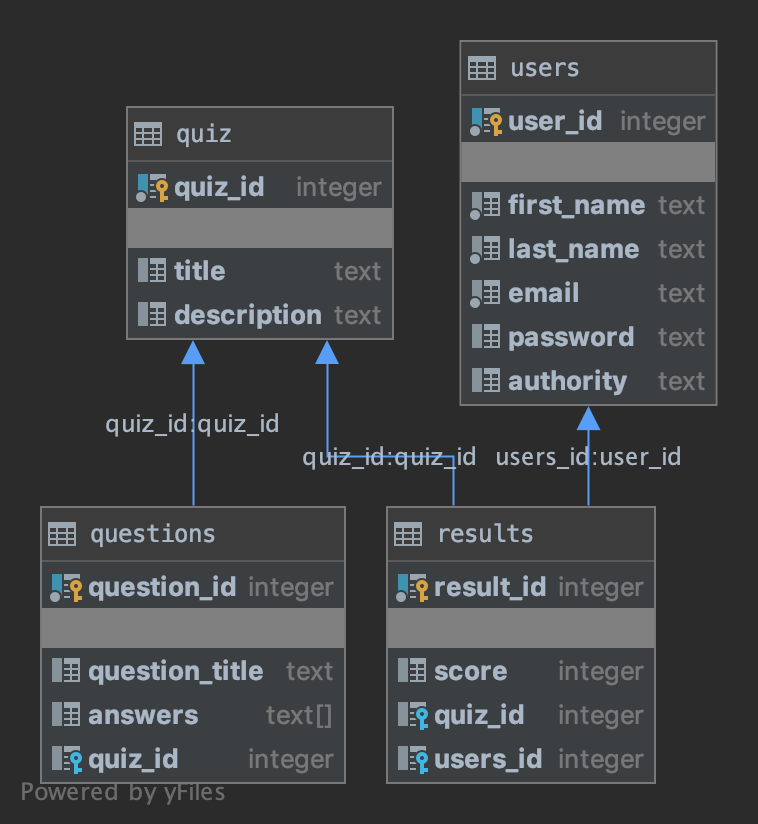
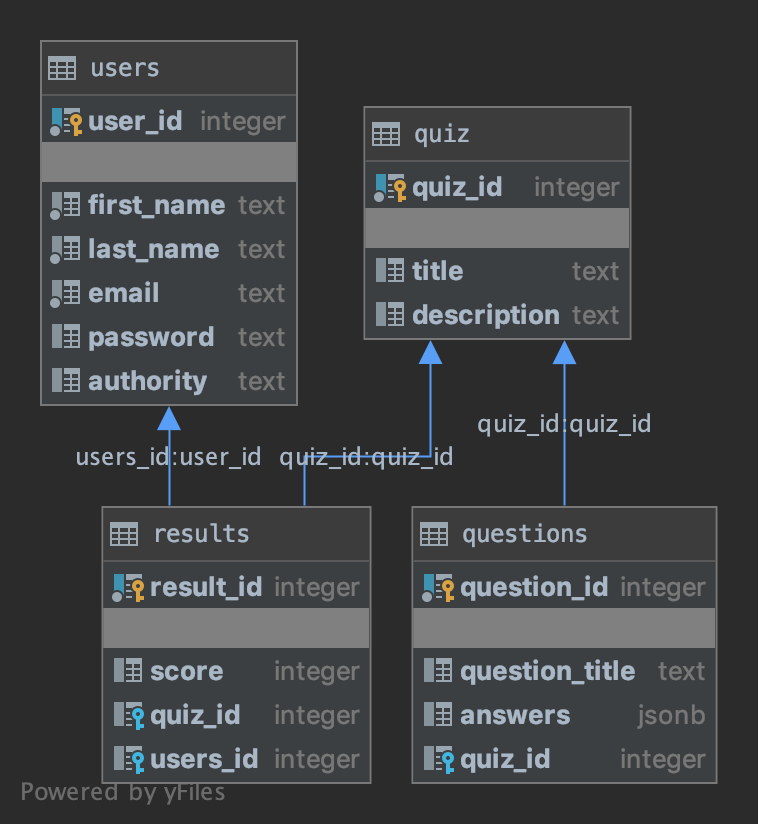
Add Java Files and Repo Classes

Changed region(s): [[0.0303, 0.0303, 0.971, 0.6068], [0.0303, 0.6068, 0.971, 0.9405], [0.3641, 0.0303, 0.3945, 0.0607]]

diff --git a/quiz-managment-backend/src/main/java/com/quiz/webbiskoolsltd/pgdb/Questions.java b/quiz-managment-backend/src/main/java/com/quiz/webbiskoolsltd/pgdb/Questions.java
@@ -1,7 +1,5 @@
 package com.quiz.webbiskoolsltd.pgdb;
 
-import java.util.List;
-
 import javax.persistence.Column;
 import javax.persistence.Entity;
 import javax.persistence.FetchType;
@@ -15,16 +13,16 @@ import org.hibernate.annotations.GenericGenerator;
 import org.hibernate.annotations.Parameter;
 import org.hibernate.annotations.Type;
 import org.hibernate.annotations.TypeDef;
+import org.hibernate.annotations.TypeDefs;
 
-import com.quiz.webbiskoolsltd.pgdb.models.Answer;
-import com.vladmihalcea.hibernate.type.array.ListArrayType;
+import com.quiz.webbiskoolsltd.pgdb.models.AnswerObject;
+import com.vladmihalcea.hibernate.type.json.JsonBinaryType;
 
 @Table(name = "questions", schema = "public")
 @Entity
-@TypeDef(
-	    name = "list-array",
-	    typeClass = ListArrayType.class
-	)
+@TypeDefs({
+    @TypeDef(name = "jsonb", typeClass = JsonBinaryType.class)
+})
 public class Questions {
 	
 	@Id
@@ -37,9 +35,9 @@ public class Questions {
 	@Column(name = "question_title", nullable = false)
 	private String questionTitle;
 	
-	@Type(type ="list-array")
-	@Column(name = "answers", columnDefinition = "text[]")
-	private List<Answer> answers;
+	@Type(type ="jsonb")
+	@Column(name = "answers")
+	private AnswerObject answers;
 	
 	@ManyToOne(fetch = FetchType.LAZY)
 	@JoinColumn(name = "quiz_id")
@@ -65,11 +63,11 @@ public class Questions {
 		this.questionTitle = questionTitle;
 	}
 
-	public List<Answer> getAnswers() {
+	public AnswerObject getAnswers() {
 		return answers;
 	}
 
-	public void setAnswers(List<Answer> answers) {
+	public void setAnswers(AnswerObject answers) {
 		this.answers = answers;
 	}
 

diff --git a/quiz-managment-backend/src/main/java/com/quiz/webbiskoolsltd/pgdb/models/AnswerObject.java b/quiz-managment-backend/src/main/java/com/quiz/webbiskoolsltd/pgdb/models/AnswerObject.java
@@ -1,0 +1,49 @@
+package com.quiz.webbiskoolsltd.pgdb.models;
+
+public class AnswerObject {
+	
+	private Answer answerOne;
+	
+	private Answer answerTwo;
+	
+	private Answer answerThree;
+	
+	private Answer answerFour;
+
+	public AnswerObject() {
+		super();
+	}
+
+	public Answer getAnswerOne() {
+		return answerOne;
+	}
+
+	public void setAnswerOne(Answer answerOne) {
+		this.answerOne = answerOne;
+	}
+
+	public Answer getAnswerTwo() {
+		return answerTwo;
+	}
+
+	public void setAnswerTwo(Answer answerTwo) {
+		this.answerTwo = answerTwo;
+	}
+
+	public Answer getAnswerThree() {
+		return answerThree;
+	}
+
+	public void setAnswerThree(Answer answerThree) {
+		this.answerThree = answerThree;
+	}
+
+	public Answer getAnswerFour() {
+		return answerFour;
+	}
+
+	public void setAnswerFour(Answer answerFour) {
+		this.answerFour = answerFour;
+	}
+
+}

diff --git a/quiz-managment-backend/src/main/java/com/quiz/webbiskoolsltd/pgdb/Results.java b/quiz-managment-backend/src/main/java/com/quiz/webbiskoolsltd/pgdb/Results.java
@@ -23,7 +23,6 @@ public class Results {
 	@Column(name = "result_id", unique = true, nullable = false)
 	private Integer resultId;
 	
-	
 	@Column(name = "score", nullable = false)
 	private Integer score;
 	
@@ -35,4 +34,39 @@ public class Results {
 	@JoinColumn(name = "users_id")
 	private Users users;
 
+	public Results() {
+		super();
+	}
+
+	public Integer getResultId() {
+		return resultId;
+	}
+
+	public void setResultId(Integer resultId) {
+		this.resultId = resultId;
+	}
+
+	public Integer getScore() {
+		return score;
+	}
+
+	public void setScore(Integer score) {
+		this.score = score;
+	}
+
+	public Quiz getQuiz() {
+		return quiz;
+	}
+
+	public void setQuiz(Quiz quiz) {
+		this.quiz = quiz;
+	}
+
+	public Users getUsers() {
+		return users;
+	}
+
+	public void setUsers(Users users) {
+		this.users = users;
+	}
 }

diff --git a/quiz-managment-backend/src/main/java/com/quiz/webbiskoolsltd/pgdb/Users.java b/quiz-managment-backend/src/main/java/com/quiz/webbiskoolsltd/pgdb/Users.java
@@ -45,8 +45,8 @@ public class Users implements java.io.Serializable {
 	@Column(name = "authority", nullable = false)
 	private String authority;
 	
-	@OneToMany(fetch = FetchType.LAZY, mappedBy = "quiz")
-	private Set<Questions> questions = new HashSet<>();
+	@OneToMany(fetch = FetchType.LAZY, mappedBy = "users")
+	private Set<Results> results = new HashSet<>();
 
 	public Users() {
 		super();
@@ -100,12 +100,12 @@ public class Users implements java.io.Serializable {
 		this.authority = authority;
 	}
 
-	public Set<Questions> getQuestions() {
-		return questions;
+	public Set<Results> getResults() {
+		return results;
 	}
 
-	public void setQuestions(Set<Questions> questions) {
-		this.questions = questions;
+	public void setResults(Set<Results> results) {
+		this.results = results;
 	}
 	
 }

diff --git a/quiz-managment-backend/src/main/java/com/quiz/webbiskoolsltd/pgdb/Quiz.java b/quiz-managment-backend/src/main/java/com/quiz/webbiskoolsltd/pgdb/Quiz.java
@@ -33,6 +33,9 @@ public class Quiz {
 	
 	@OneToMany(fetch = FetchType.LAZY, mappedBy = "quiz")
 	private Set<Questions> questions = new HashSet<>();
+	
+	@OneToMany(fetch = FetchType.LAZY, mappedBy = "quiz")
+	private Set<Results> results = new HashSet<>();
 
 	public Quiz() {
 		super();
@@ -60,5 +63,21 @@ public class Quiz {
 
 	public void setDescription(String description) {
 		this.description = description;
+	}
+
+	public Set<Questions> getQuestions() {
+		return questions;
+	}
+
+	public void setQuestions(Set<Questions> questions) {
+		this.questions = questions;
+	}
+
+	public Set<Results> getResults() {
+		return results;
+	}
+
+	public void setResults(Set<Results> results) {
+		this.results = results;
 	}
 }

diff --git a/quiz-managment-backend/src/main/java/com/quiz/webbiskoolsltd/repository/IResultsDao.java b/quiz-managment-backend/src/main/java/com/quiz/webbiskoolsltd/repository/IResultsDao.java
@@ -1,0 +1,9 @@
+package com.quiz.webbiskoolsltd.repository;
+
+import org.springframework.data.jpa.repository.JpaRepository;
+
+import com.quiz.webbiskoolsltd.pgdb.Results;
+
+public interface IResultsDao extends JpaRepository<Results, Integer> {
+
+}

diff --git a/quiz-managment-backend/src/main/java/com/quiz/webbiskoolsltd/repository/IQuizDao.java b/quiz-managment-backend/src/main/java/com/quiz/webbiskoolsltd/repository/IQuizDao.java
@@ -1,0 +1,9 @@
+package com.quiz.webbiskoolsltd.repository;
+
+import org.springframework.data.jpa.repository.JpaRepository;
+
+import com.quiz.webbiskoolsltd.pgdb.Quiz;
+
+public interface IQuizDao extends JpaRepository<Quiz, Integer> {
+
+}
